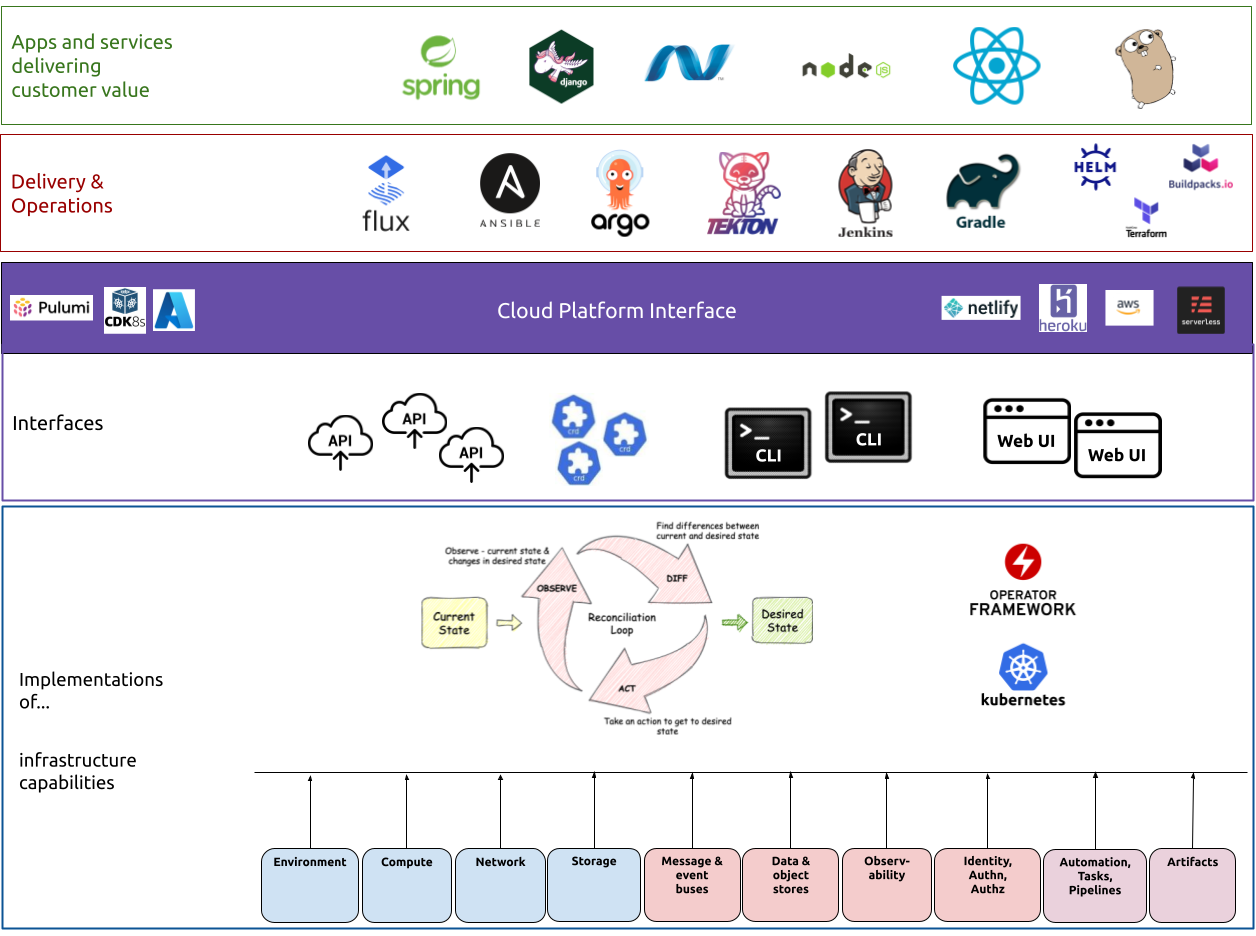
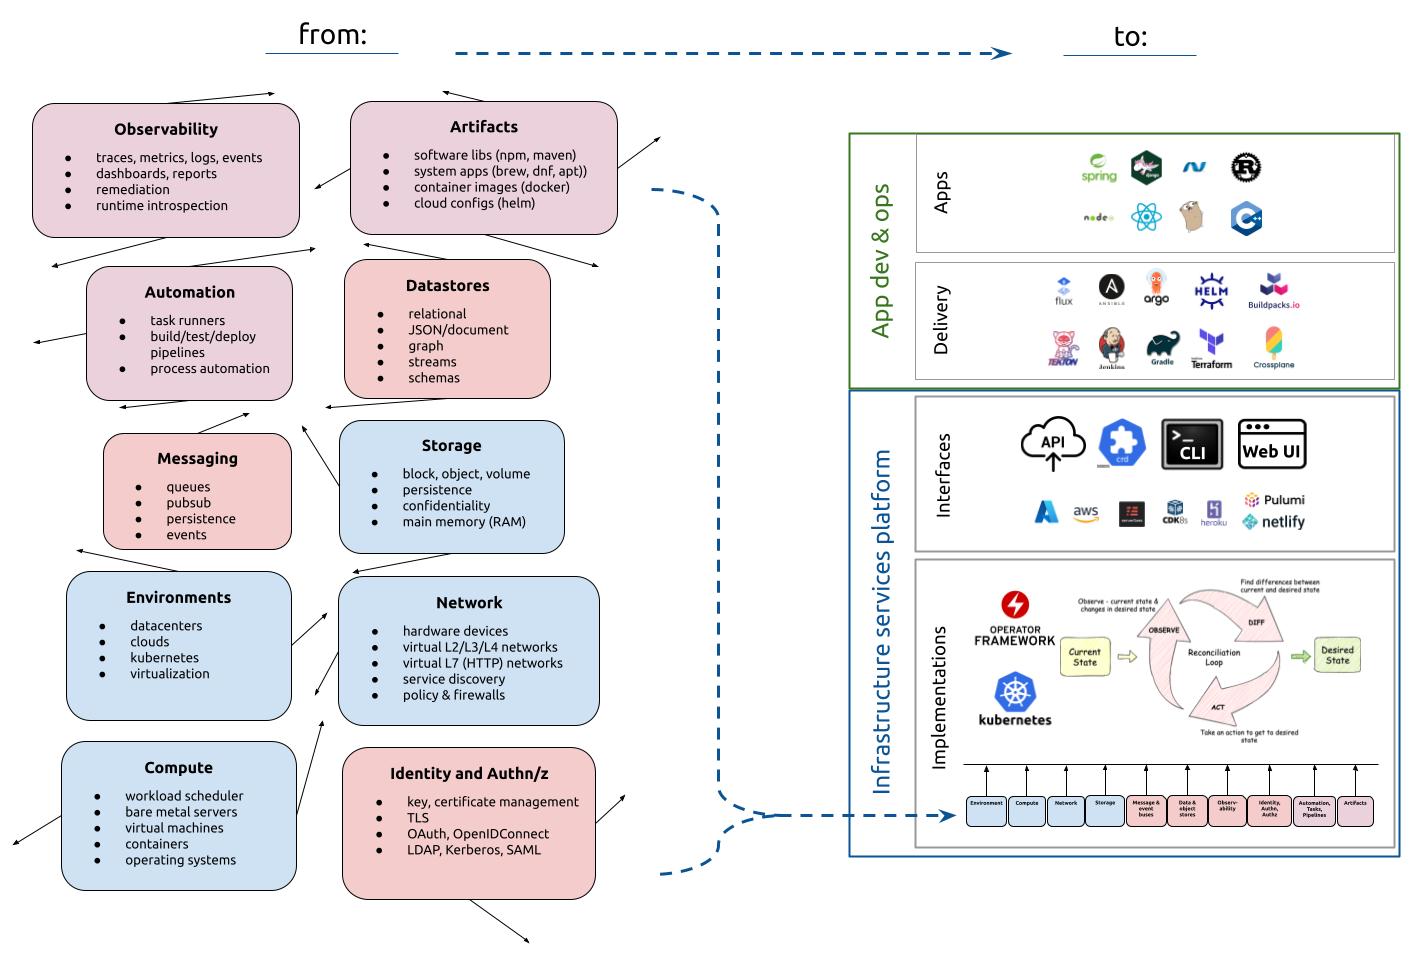
improved graphic for cloud post

diff --git a/_posts/2021-09-30-cloud-redefined-infrastructure.md b/_posts/2021-09-30-cloud-redefined-infrastructure.md
@@ -5,7 +5,7 @@ date: 2021-09-30 08:00:00 -0500
 tags: platform infrastructure
 ---
 
-![clouds](/assets/clouds.png)
+![infrastructure platform](/assets/infra_desired_state.png)
 
 Cloud computing has been around for well over a decade, so we ought to know what "cloud" is by now. Indeed we understand its attributes well, such as flexibility, efficiency, connectivity, and scalability; in the [words of the CNCF](https://github.com/cncf/toc/blob/main/DEFINITION.md) (emphasis added):
 
@@ -19,7 +19,7 @@ Let us describe "cloud" by induction from existing ones: a **cloud** is a collec
 
 Per this definition, any provider of infrastructure services might be considered a cloud provider, though generally we reserve the title for providers that offer many diverse service types. "Multi-cloud" environments are those using infrastructure services from several providers. A "private cloud" is a collection of infrastructure services offered via an internal, perhaps custom interface.
 
-With this in mind let's now describe how cloud is changing enterprise infrastructure.
+With this in mind let's now describe how cloud is changing enterprise infrastructure. The graphic above illustrates these.
 
 ### From servers to serverless
 
@@ -36,14 +36,6 @@ Another change is that before "cloud" infrastructure services were often offered
 But as infrastructure services become software-defined, interfaces and processes for acquiring those services can become more consistent, easier and faster for apps and developers to use and manage. For example, a set of Kubernetes resources or Terraform manifests could describe every infrastructure service required by an application.
 
 In other words, cloud is an opportunity to bring together a bunch of disparate services and interfaces into a consistent **platform**.
-
-In graphic form, cloud takes us from:
-
-![infra-current-state](/assets/infra_current_state.png)
-
-#### to:
-
-![infra-desired-state](/assets/infra_desired_state.png)
 
 ### From dependency to partner
 
